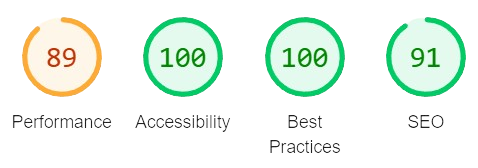
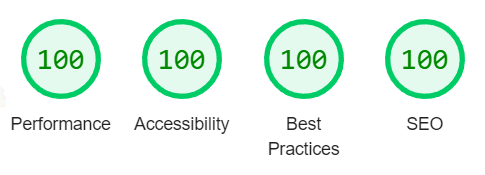
docs: update readme

diff --git a/README.md b/README.md
@@ -1,6 +1,4 @@
-# Frontend Mentor - Advice generator app solution
-
-<hr>
+# Frontend Mentor - Advice Generator app solution
 
 ## Table of contents
 
@@ -13,13 +11,10 @@
     - [Layout](#layout)
     - [Features](#features)
 - [My Process](#-my-process)
-  - [Folder Structure](#-folder-structure)
   - [Built With](#-built-with)
+  - [Folder Structure](#-folder-structure)
   - [Test Coverage](#-test-coverage)
   - [Lighthouse Results](#-lighthouse-results)
-  - [Future Implementations](#-future-implementations)
-- [Other Links](#-other-links)
-- [Author](#-author)
 
 ### Português
 
@@ -30,19 +25,19 @@
     - [Leiaute](#leiaute)
     - [Funcionalidades](#funcionalidades)
 - [Meu Processo](#-meu-processo)
-  - [Estrutura de Pastas](#-estrutura-de-pastas)
   - [Desenvolvido com](#-desenvolvido-com)
+  - [Estrutura de Pastas](#-estrutura-de-pastas)
   - [Cobertura de Testes](#-cobertura-de-testes)
   - [Resultados do Lighthouse](#-resultados-do-lighthouse)
-  - [Implementações Futuras](#-implementações-futuras)
-- [Outros Links](#-outros-links)
-- [Autora](#-autora)
+
+- [Links](#-links)
+- [Autora/Author](#-autora/author)
 
 ## ✨ Overview
 
 ### 🦸 The Challenge
 
-This is a solution to the [Advice generator app challenge on Frontend Mentor](https://www.frontendmentor.io/challenges/advice-generator-app-QdUG-13db). Frontend Mentor challenges help you improve your coding skills by building realistic projects.
+This is a solution to the [Advice generator app challenge on Frontend Mentor](https://www.frontendmentor.io/challenges/advice-generator-app-QdUG-13db). <strong>The goal of the challenge is to build an application that allows users to access a web page capable of generating random advice</strong>, following the proposed layout and functionalities.
 
 In this project, users should be able to:
 
@@ -78,13 +73,6 @@ Visit [http://localhost:5173](http://localhost:5173) in your browser to view the
 
 ## 📚 My process
 
-### 📂 Folder Structure
-
-- **src**:
-  - **assets**: Stores static resources such as images, fonts, etc.
-  - **components**: Comprised of reusable UI components and application-specific components.
-  - **services**: Comprised of class files with methods for making REST API requests.
-
 ### 👩🔧 Built With
 
 #### Code Editor
@@ -94,6 +82,7 @@ Visit [http://localhost:5173](http://localhost:5173) in your browser to view the
 #### Environment
 
 - Node v20.9.0
+- Vite v5.0.0
 
 #### Code Style
 
@@ -109,6 +98,13 @@ Visit [http://localhost:5173](http://localhost:5173) in your browser to view the
 - Jest
 - React Testing Library
 
+### 📂 Folder Structure
+
+- **src**:
+  - **assets**: Stores static resources such as images, fonts, etc.
+  - **components**: Comprised of reusable UI components and application-specific components.
+  - **services**: Comprised of class files with methods for making REST API requests.
+
 ### 👩💻 Test Coverage
 
 Each component in the app was tested to ensure the full functionality of the application.
@@ -121,8 +117,8 @@ Each component in the app was tested to ensure the full functionality of the app
 
 #### Performance
 
-- **Score: 89**
-- **Description:** The performance score reflects how quickly the application loads and responds to user interactions. A score of 89 indicates solid performance, but there is room for optimizations to further enhance speed.
+- **Score: 100**
+- **Description:** The performance score reflects how quickly the application loads and responds to user interactions. A score of 100 indicates excellent performance, meaning that the application is fast and efficient.
 
 #### Accessibility
 
@@ -136,22 +132,8 @@ Each component in the app was tested to ensure the full functionality of the app
 
 #### SEO
 
-- **Score: 91**
-- **Description:** The SEO score reflects how well the application is optimized for search engines. A score of 91 suggests solid optimization, but there may be specific areas that can be improved to enhance visibility in search results.
-
-### 📌 Future Implementations
-
-- **Performance:** Analyze and optimize resources, such as images and scripts, to further enhance performance.
-- **SEO:** Identify improvement opportunities in content structure and meta tags to optimize SEO.
-
-## 🔍 Other Links
-
-- [Deploy](https://advice-generator-eta-seven.vercel.app/)
-
-## 👩 Author
-
-- Frontend Mentor - [@vanessa-cl](https://www.frontendmentor.io/profile/vanessa-cl)
-- Linkedin - [Vanessa Lima](https://www.linkedin.com/in/vanessa-lima20-/)
+- **Score: 100**
+- **Description:** The SEO score reflects how well the application is optimized for search engines. A score of 100 indicates effective optimization, aiding in improving visibility in search results.
 
 <hr>
 
@@ -159,9 +141,9 @@ Each component in the app was tested to ensure the full functionality of the app
 
 ### 🦸 O Desafio
 
-Essa é uma solução para o desafio Advice generator app no Frontend Mentor. Os desafios do Frontend Mentor ajudam a aprimorar suas habilidades de codificação ao construir projetos realistas.
+Essa é uma solução para o desafio [Advice generator no Frontend Mentor](https://www.frontendmentor.io/challenges/advice-generator-app-QdUG-13db). <strong>O objetivo do desafio é construir uma aplicação que permita que os usuários acessem uma página da web capaz de gerar um conselho aleatório</strong>, seguindo o layout e as funcionalidades propostas.
 
-Neste projeto, os usuários devem ser capazes de:
+Neste projeto, <strong>os usuários devem ser capazes de:</strong>
 
 - Visualizar o layout ideal para o aplicativo, dependendo do tamanho da tela de seu dispositivo.
 - Ver estados de hover para todos os elementos interativos na página.
@@ -195,13 +177,6 @@ Acesse [http://localhost:3000](http://localhost:3000) no seu navegador para visu
 
 ## 📚 Meu Processo
 
-### 📂 Estrutura de Pastas
-
-- **src:**
-  - **assets**: armazena recursos estáticos como imagens, fontes e etc.
-  - **components**: composta por componentes reutilizáveis de UI e componentes específicos da aplicação.
-  - **services**: composta por arquivos de classes com métodos de requisição às APIs REST.
-
 ### 👩🔧 Desenvolvido com
 
 #### Editor de Código
@@ -226,6 +201,13 @@ Acesse [http://localhost:3000](http://localhost:3000) no seu navegador para visu
 - Jest
 - React Testing Library
 
+### 📂 Estrutura de Pastas
+
+- **src:**
+  - **assets**: armazena recursos estáticos como imagens, fontes e etc.
+  - **components**: composta por componentes reutilizáveis de UI e componentes específicos da aplicação.
+  - **services**: composta por arquivos de classes com métodos de requisição às APIs REST.
+
 ### 👩💻 Cobertura de Testes
 
 Cada componente no aplicativo foi testado para garantir a funcionalidade completa da aplicação.
@@ -238,8 +220,8 @@ Cada componente no aplicativo foi testado para garantir a funcionalidade complet
 
 #### Performance
 
-- **Pontuação: 89**
-- **Descrição:** A pontuação de performance reflete o quão rapidamente a aplicação carrega e responde às interações do usuário. A pontuação de 89 indica uma performance sólida, mas há espaço para otimizações para melhorar ainda mais a velocidade.
+- **Pontuação: 100**
+- **Descrição:** A pontuação de performance reflete o quão rapidamente a aplicação carrega e responde às interações do usuário. Uma pontuação de 100 indica um desempenho excelente, significando que a aplicação é rápida e eficiente.
 
 #### Acessibilidade
 
@@ -253,19 +235,14 @@ Cada componente no aplicativo foi testado para garantir a funcionalidade complet
 
 #### SEO
 
-- **Pontuação: 91**
-- **Descrição:** A pontuação de SEO reflete o quão bem a aplicação é otimizada para os motores de busca. Uma pontuação de 91 sugere uma otimização sólida, mas pode haver áreas específicas que podem ser aprimoradas para melhorar a visibilidade nos resultados de pesquisa.
+- **Pontuação: 100**
+- **Descrição:** A pontuação de SEO reflete o quão bem a aplicação é otimizada para os motores de busca. Uma pontuação de 100 indica uma otimização eficaz, ajudando a melhorar a visibilidade nos resultados de pesquisa.
 
-### 📌 Implementações Futuras
-
-- **Performance:** Analisar e otimizar recursos, como imagens e scripts, para melhorar ainda mais o desempenho.
-- **SEO:** Identificar oportunidades de melhoria na estrutura do conteúdo e nas meta tags para otimizar o SEO.
-
-## 🔍 Outros Links
+## 🔍 Links
 
 - [Deploy](https://advice-generator-eta-seven.vercel.app/)
 
-## 👩 Autora
+## 👩 Autora/Author
 
 - Frontend Mentor - [@vanessa-cl](https://www.frontendmentor.io/profile/vanessa-cl)
 - Linkedin - [Vanessa Lima](https://www.linkedin.com/in/vanessa-lima20-/)
